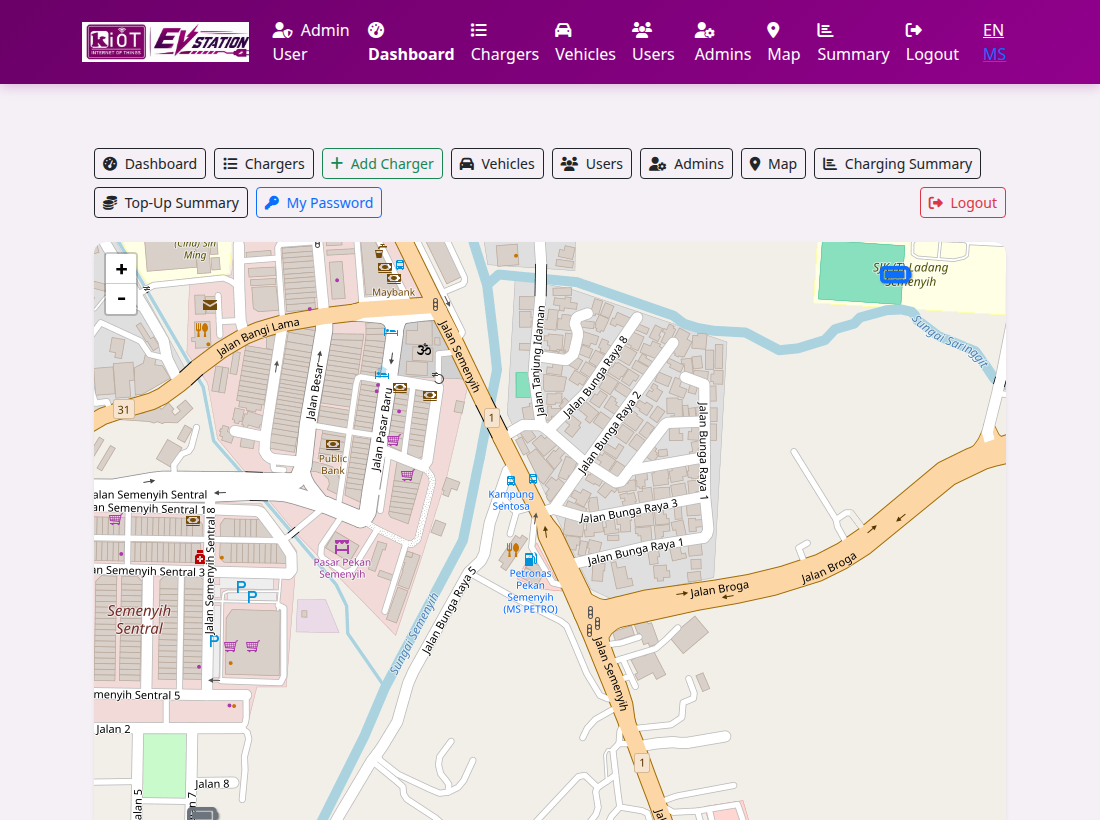
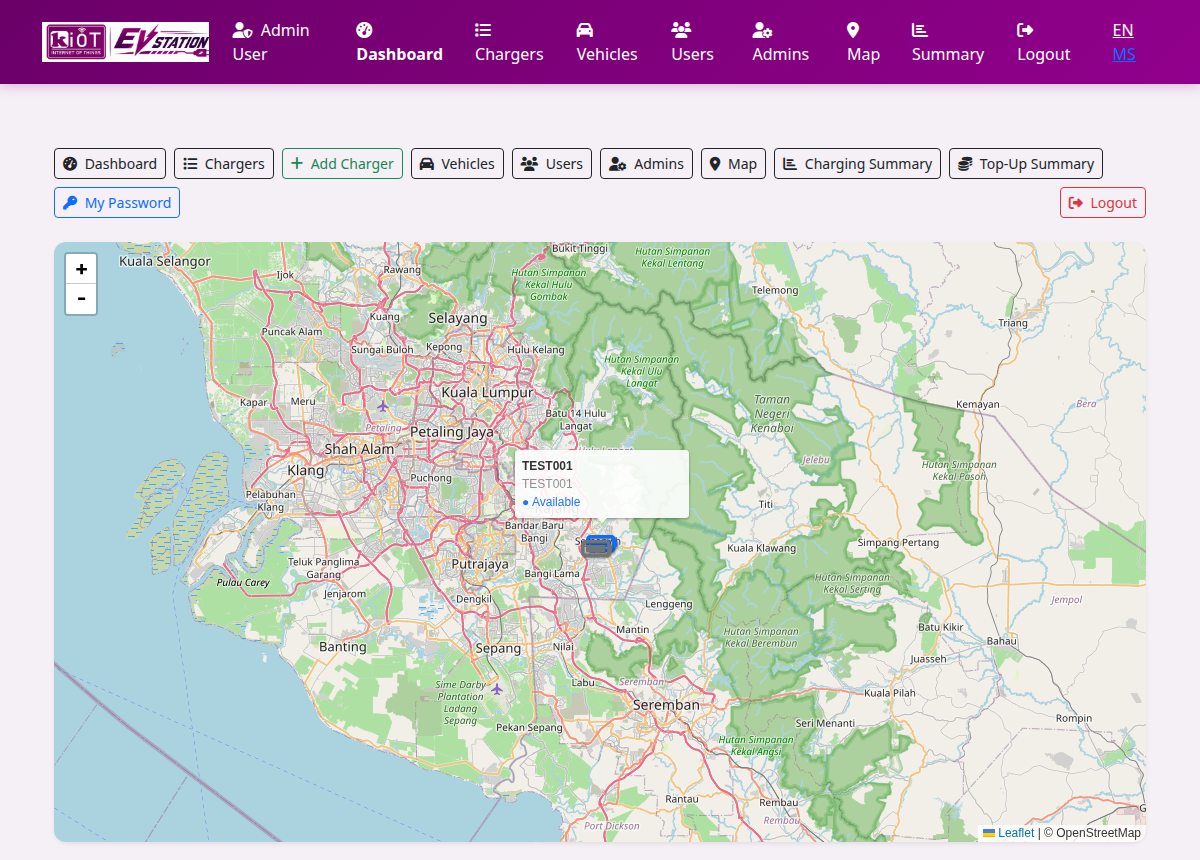
Zoom the operator map out so both chargers are visible
Replace the street-level map shot with a wider view centered on
the online and offline charger pins.

diff --git a/README.md b/README.md
@@ -100,7 +100,7 @@ Operator console, station list. One charger was online during the socket test; t
 
 <img alt="Admin station list with one charger online" src="docs/images/10-admin-stations.png" width="640">
 
-Operator map. The blue pin is the charger that was online for the test. The gray pin is an offline charger. The test charger has no saved location of its own, so a temporary map pin was set for this screenshot and removed afterward.
+Operator map, zoomed out so both chargers sit in frame. The blue pin is the charger that was online for the test. The gray pin is an offline charger. The test charger has no saved location of its own, so a temporary map pin was set for this screenshot and removed afterward.
 
 <img alt="Admin map with the online charger and an offline charger" src="docs/images/11-admin-map.png" width="640">
 
